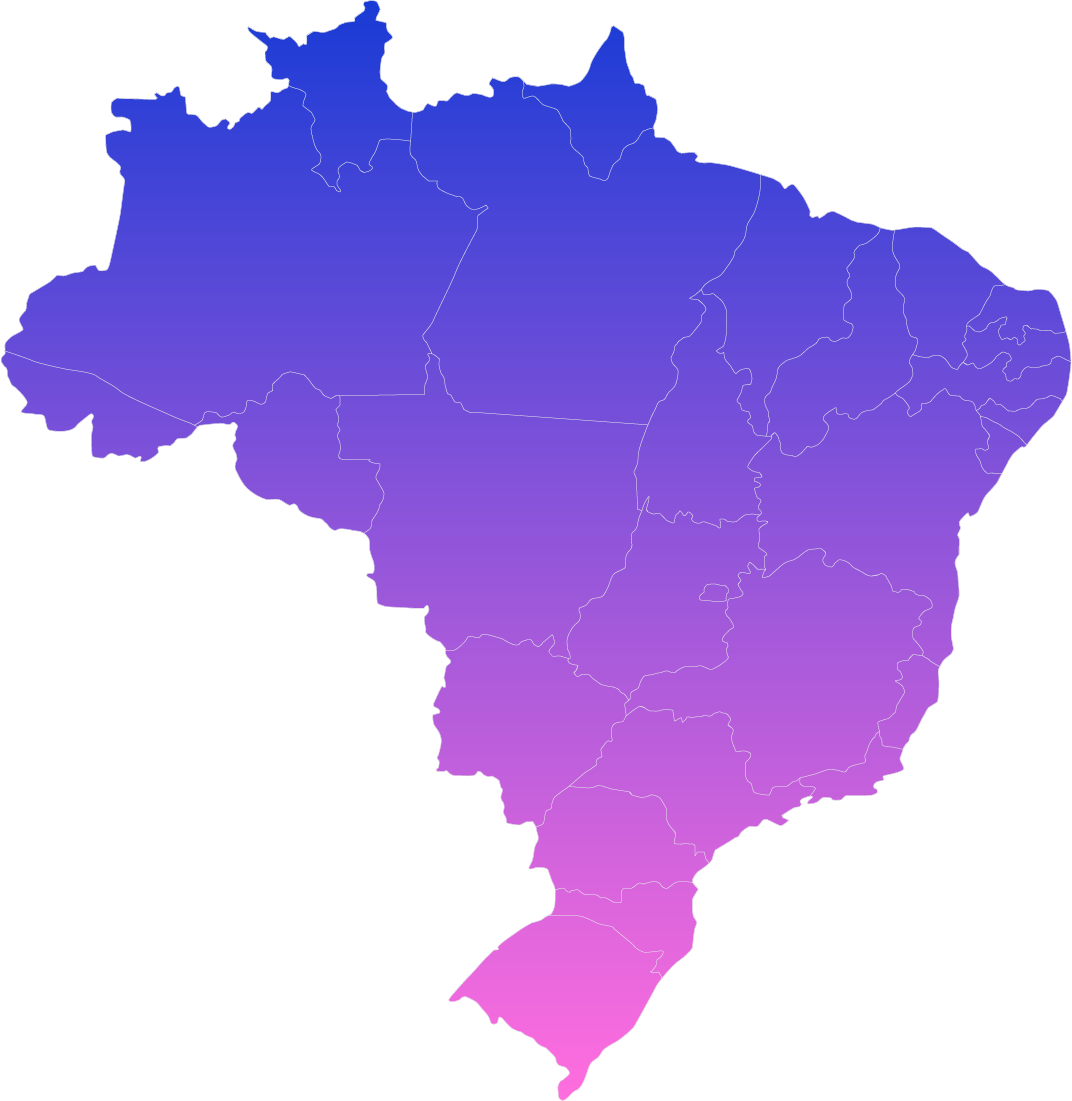
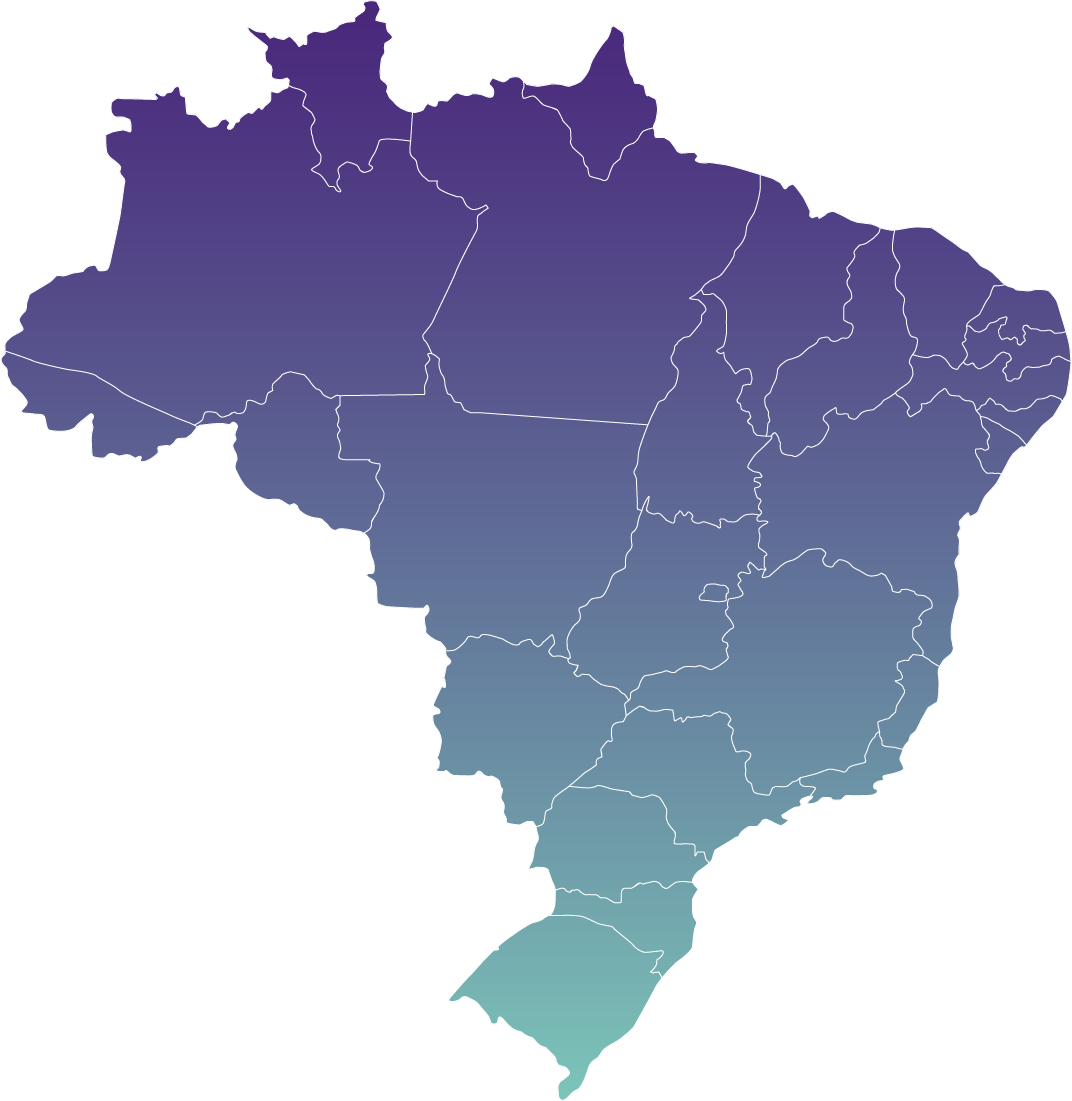
Changes

diff --git a/src/components/landing/Hero.tsx b/src/components/landing/Hero.tsx
@@ -5,36 +5,47 @@ import { Link } from 'react-router-dom';
 import logoPinSrc from '@/assets/logo-pin.png';
 import brazilMapSrc from '@/assets/brazil-map.png';
 
-// Brazil state pin positions (% of SVG viewBox 0 0 500 540)
+// Pin positions as % of the image (x=0 left, y=0 top)
+// Calibrated for the purple/teal gradient Brazil map with transparent background
 const brazilPins = [
-  { id: 'SP', x: 52, y: 72, label: 'São Paulo' },
-  { id: 'RJ', x: 56, y: 70, label: 'Rio de Janeiro' },
-  { id: 'MG', x: 53, y: 64, label: 'Minas Gerais' },
-  { id: 'RS', x: 44, y: 88, label: 'Rio Grande do Sul' },
-  { id: 'PR', x: 47, y: 79, label: 'Paraná' },
-  { id: 'SC', x: 46, y: 83, label: 'Santa Catarina' },
-  { id: 'BA', x: 60, y: 56, label: 'Bahia' },
-  { id: 'GO', x: 48, y: 57, label: 'Goiás' },
-  { id: 'DF', x: 50, y: 57, label: 'Distrito Federal' },
-  { id: 'PE', x: 66, y: 45, label: 'Pernambuco' },
-  { id: 'CE', x: 64, y: 37, label: 'Ceará' },
-  { id: 'MA', x: 56, y: 34, label: 'Maranhão' },
-  { id: 'PA', x: 47, y: 28, label: 'Pará' },
-  { id: 'AM', x: 28, y: 25, label: 'Amazonas' },
-  { id: 'MT', x: 40, y: 50, label: 'Mato Grosso' },
-  { id: 'MS', x: 44, y: 67, label: 'Mato Grosso do Sul' },
-  { id: 'RN', x: 68, y: 39, label: 'Rio Grande do Norte' },
-  { id: 'PB', x: 68, y: 43, label: 'Paraíba' },
-  { id: 'AL', x: 67, y: 49, label: 'Alagoas' },
-  { id: 'ES', x: 58, y: 65, label: 'Espírito Santo' },
-  { id: 'TO', x: 51, y: 43, label: 'Tocantins' },
-  { id: 'RO', x: 31, y: 38, label: 'Rondônia' },
+  // Norte
+  { id: 'AM',  x: 24, y: 28, label: 'Amazonas' },
+  { id: 'PA',  x: 47, y: 22, label: 'Pará' },
+  { id: 'RR',  x: 30, y: 11, label: 'Roraima' },
+  { id: 'AP',  x: 55, y: 9,  label: 'Amapá' },
+  { id: 'RO',  x: 30, y: 43, label: 'Rondônia' },
+  { id: 'AC',  x: 16, y: 38, label: 'Acre' },
+  { id: 'TO',  x: 54, y: 42, label: 'Tocantins' },
+  // Nordeste
+  { id: 'MA',  x: 58, y: 28, label: 'Maranhão' },
+  { id: 'PI',  x: 63, y: 35, label: 'Piauí' },
+  { id: 'CE',  x: 69, y: 27, label: 'Ceará' },
+  { id: 'RN',  x: 75, y: 27, label: 'Rio Grande do Norte' },
+  { id: 'PB',  x: 75, y: 33, label: 'Paraíba' },
+  { id: 'PE',  x: 70, y: 38, label: 'Pernambuco' },
+  { id: 'AL',  x: 74, y: 44, label: 'Alagoas' },
+  { id: 'SE',  x: 72, y: 49, label: 'Sergipe' },
+  { id: 'BA',  x: 63, y: 53, label: 'Bahia' },
+  // Centro-Oeste
+  { id: 'MT',  x: 40, y: 48, label: 'Mato Grosso' },
+  { id: 'GO',  x: 51, y: 58, label: 'Goiás' },
+  { id: 'DF',  x: 54, y: 61, label: 'Distrito Federal' },
+  { id: 'MS',  x: 44, y: 69, label: 'Mato Grosso do Sul' },
+  // Sudeste
+  { id: 'MG',  x: 58, y: 61, label: 'Minas Gerais' },
+  { id: 'ES',  x: 65, y: 63, label: 'Espírito Santo' },
+  { id: 'RJ',  x: 62, y: 70, label: 'Rio de Janeiro' },
+  { id: 'SP',  x: 53, y: 73, label: 'São Paulo' },
+  // Sul
+  { id: 'PR',  x: 49, y: 79, label: 'Paraná' },
+  { id: 'SC',  x: 48, y: 85, label: 'Santa Catarina' },
+  { id: 'RS',  x: 44, y: 91, label: 'Rio Grande do Sul' },
 ];
 
 const infographics = [
   { value: '+1.580', label: 'Profissionais da área de saúde' },
   { value: '+1.000', label: 'Clínicas de Grande e Pequeno Porte ativas' },
-  { value: '+106', label: 'Cidades do Brasil' },
+  { value: '+106',   label: 'Cidades do Brasil' },
   { value: '+4.827', label: 'Procedimentos médicos por mês' },
 ];
 
@@ -43,13 +54,14 @@ const Hero = () => {
     <section className="relative min-h-screen gradient-hero overflow-hidden">
       {/* Background Pattern */}
       <div className="absolute inset-0 bg-hero-pattern opacity-30" />
-      
+
       {/* Animated Gradient Orbs */}
       <div className="absolute top-20 left-10 w-72 h-72 bg-helpude-purple/30 rounded-full blur-3xl animate-float" />
       <div className="absolute bottom-20 right-10 w-96 h-96 bg-helpude-teal/20 rounded-full blur-3xl animate-float" style={{ animationDelay: '-3s' }} />
-      
+
       <div className="container relative z-10 mx-auto px-4 pt-32 pb-20">
         <div className="max-w-5xl mx-auto text-center">
+
           {/* Badge */}
           <motion.div
             initial={{ opacity: 0, y: 20 }}
@@ -84,7 +96,7 @@ const Hero = () => {
             transition={{ duration: 0.6, delay: 0.2 }}
             className="text-lg md:text-xl text-white/70 max-w-3xl mx-auto mb-10 leading-relaxed"
           >
-            O HelpUde conecta clínicas de saúde a soluções de crédito personalizadas, 
+            O HelpUde conecta clínicas de saúde a soluções de crédito personalizadas,
             permitindo que mais pacientes tenham acesso aos tratamentos que precisam.
           </motion.p>
 
@@ -117,59 +129,53 @@ const Hero = () => {
           >
             {/* Left: Map */}
             <div className="relative flex-shrink-0 w-full md:w-[340px] lg:w-[400px]">
-              <div className="absolute inset-0 bg-helpude-purple/10 rounded-3xl blur-2xl" />
-              <div className="relative bg-white/5 backdrop-blur-sm border border-white/10 rounded-3xl p-3 overflow-hidden">
-                {/* Map image as base */}
-                <div className="relative">
-                  <img
-                    src={brazilMapSrc}
-                    alt="Mapa do Brasil"
-                    className="w-full h-auto opacity-80"
-                    style={{ filter: 'drop-shadow(0 0 20px rgba(123,95,199,0.4))' }}
-                  />
-                  {/* SVG overlay for pins, positioned absolutely over the image */}
-                  <svg
-                    viewBox="0 0 500 540"
-                    xmlns="http://www.w3.org/2000/svg"
-                    className="absolute inset-0 w-full h-full"
-                    aria-label="Pins HelpUde no Brasil"
-                  >
-                    {brazilPins.map((pin, index) => {
-                      const px = (pin.x / 100) * 500;
-                      const py = (pin.y / 100) * 540;
-                      return (
-                        <motion.g
-                          key={pin.id}
-                          initial={{ opacity: 0, scale: 0 }}
-                          animate={{ opacity: 1, scale: 1 }}
-                          transition={{ duration: 0.4, delay: 0.8 + index * 0.05 }}
-                        >
-                          <circle cx={px} cy={py + 1} r="7" fill="rgba(0,0,0,0.25)" />
-                          <circle cx={px} cy={py} r="7" fill="white" stroke="rgba(123,95,199,0.7)" strokeWidth="1.2" />
-                          <image
-                            href={logoPinSrc}
-                            x={px - 4.5}
-                            y={py - 4.5}
-                            width="9"
-                            height="9"
-                            preserveAspectRatio="xMidYMid meet"
-                          />
-                          <circle cx={px} cy={py} r="11" fill="none" stroke="rgba(123,95,199,0.25)" strokeWidth="1" />
-                        </motion.g>
-                      );
-                    })}
-                  </svg>
-                </div>
-                <div className="absolute top-3 left-3 w-2 h-2 rounded-full bg-helpude-teal/60" />
-                <div className="absolute top-3 right-3 w-2 h-2 rounded-full bg-helpude-purple/60" />
-                <div className="absolute bottom-3 left-3 w-2 h-2 rounded-full bg-helpude-purple/60" />
-                <div className="absolute bottom-3 right-3 w-2 h-2 rounded-full bg-helpude-teal/60" />
+              <div className="relative overflow-hidden">
+                {/* Map image */}
+                <img
+                  src={brazilMapSrc}
+                  alt="Mapa do Brasil"
+                  className="w-full h-auto"
+                  style={{ filter: 'drop-shadow(0 0 24px rgba(123,95,199,0.45))' }}
+                />
+
+                {/* SVG overlay — viewBox 0 0 100 100 so pin coords = % of image */}
+                <svg
+                  viewBox="0 0 100 100"
+                  xmlns="http://www.w3.org/2000/svg"
+                  className="absolute inset-0 w-full h-full"
+                  aria-label="Pins HelpUde no Brasil"
+                >
+                  {brazilPins.map((pin, index) => (
+                    <motion.g
+                      key={pin.id}
+                      initial={{ opacity: 0, scale: 0 }}
+                      animate={{ opacity: 1, scale: 1 }}
+                      transition={{ duration: 0.35, delay: 0.9 + index * 0.05 }}
+                    >
+                      {/* drop shadow */}
+                      <circle cx={pin.x} cy={pin.y + 0.5} r="2.3" fill="rgba(0,0,0,0.28)" />
+                      {/* white bg circle */}
+                      <circle cx={pin.x} cy={pin.y} r="2.3" fill="white" stroke="rgba(123,95,199,0.85)" strokeWidth="0.45" />
+                      {/* logo icon */}
+                      <image
+                        href={logoPinSrc}
+                        x={pin.x - 1.5}
+                        y={pin.y - 1.5}
+                        width="3"
+                        height="3"
+                        preserveAspectRatio="xMidYMid meet"
+                      />
+                      {/* outer halo */}
+                      <circle cx={pin.x} cy={pin.y} r="3.8" fill="none" stroke="rgba(123,95,199,0.2)" strokeWidth="0.6" />
+                    </motion.g>
+                  ))}
+                </svg>
               </div>
             </div>
 
             {/* Right: Title + Infographics */}
             <div className="flex-1 text-left w-full">
-              <h2 className="text-2xl md:text-3xl lg:text-4xl font-display font-bold text-white mb-2 leading-snug">
+              <h2 className="text-3xl md:text-4xl lg:text-5xl font-display font-bold text-white mb-3 leading-tight">
                 Impactando Clínicas<br />em Todo o Brasil
               </h2>
               <p className="text-white/50 text-sm mb-8">De norte a sul, transformando o acesso à saúde</p>
